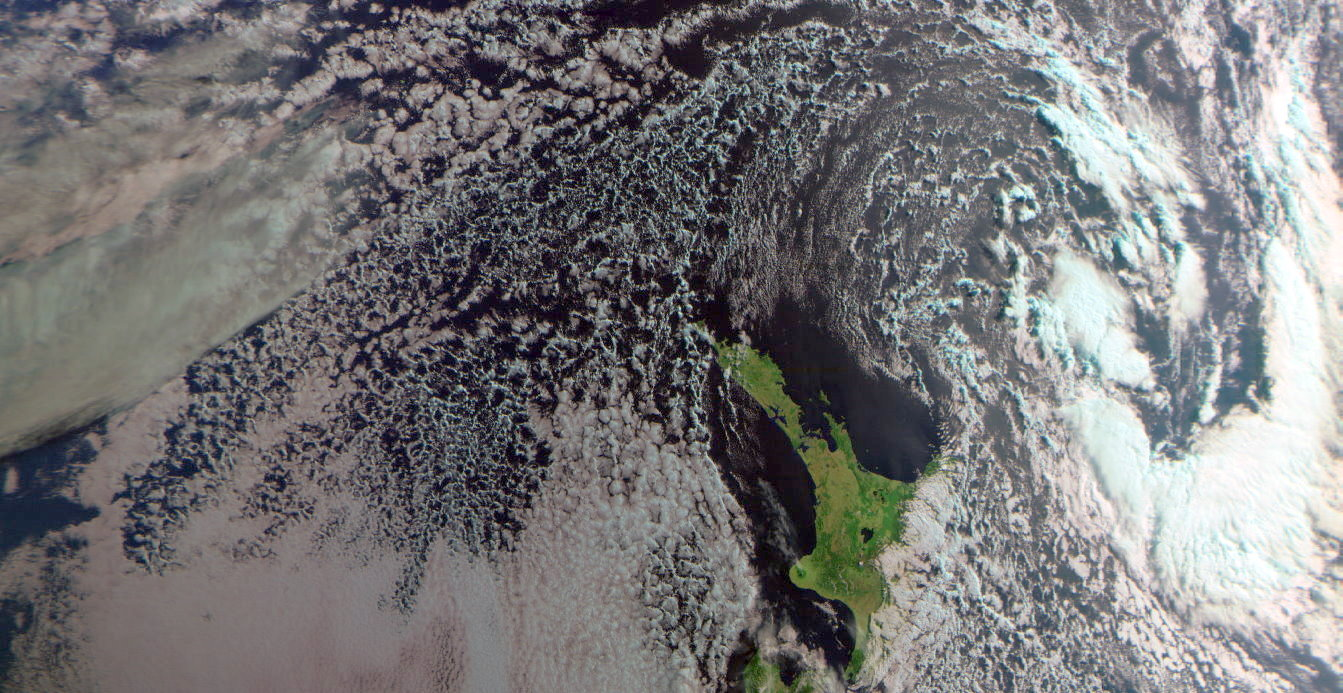
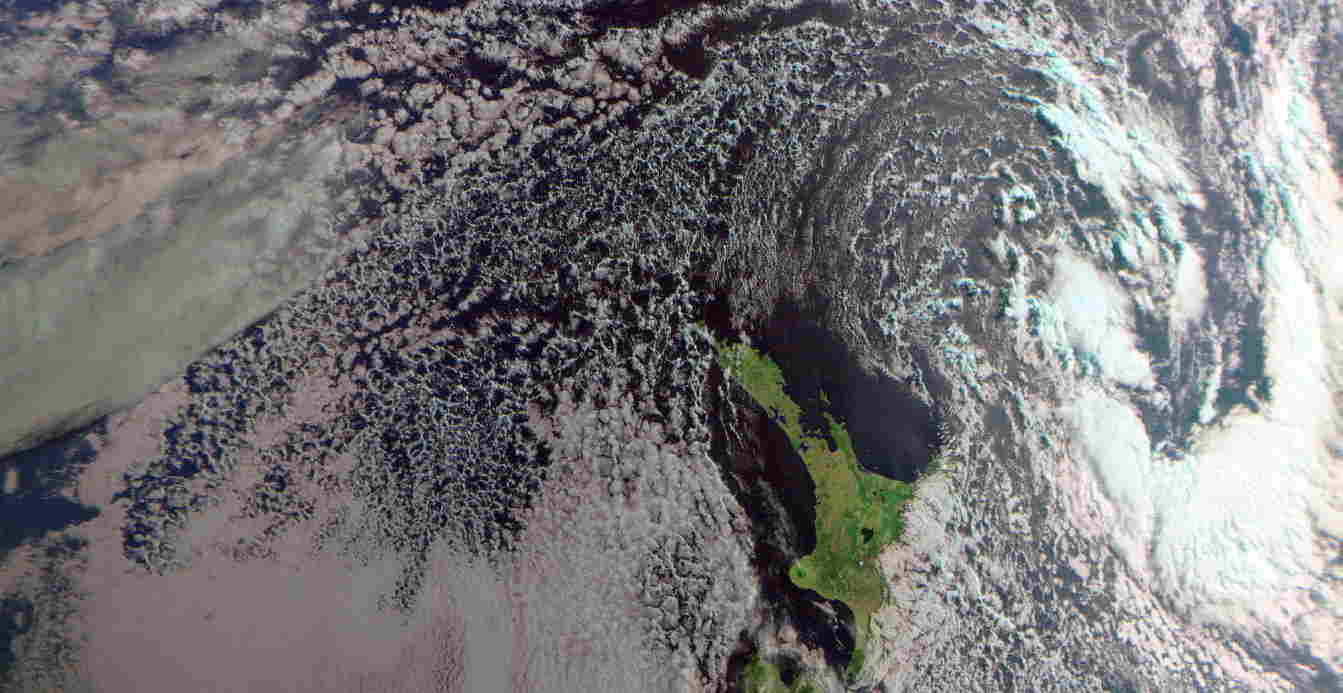
plot title change, reduced image size

diff --git a/pi-code/wxcapture/process/schedule_passes.py b/pi-code/wxcapture/process/schedule_passes.py
@@ -253,7 +253,7 @@ def get_predict(sat_data, sat, time_stamp, end_time_stamp, when, capture):
         MY_LOGGER.debug('Northbound pass')
         direction = 'Northbound'
 
-    plot_title = direction + ' Pass\n'
+    plot_title = sat['name'] + '\n' + direction + ' Pass\n'
 
     capture_reason = 'Not defined'
     if capture == 'no':
